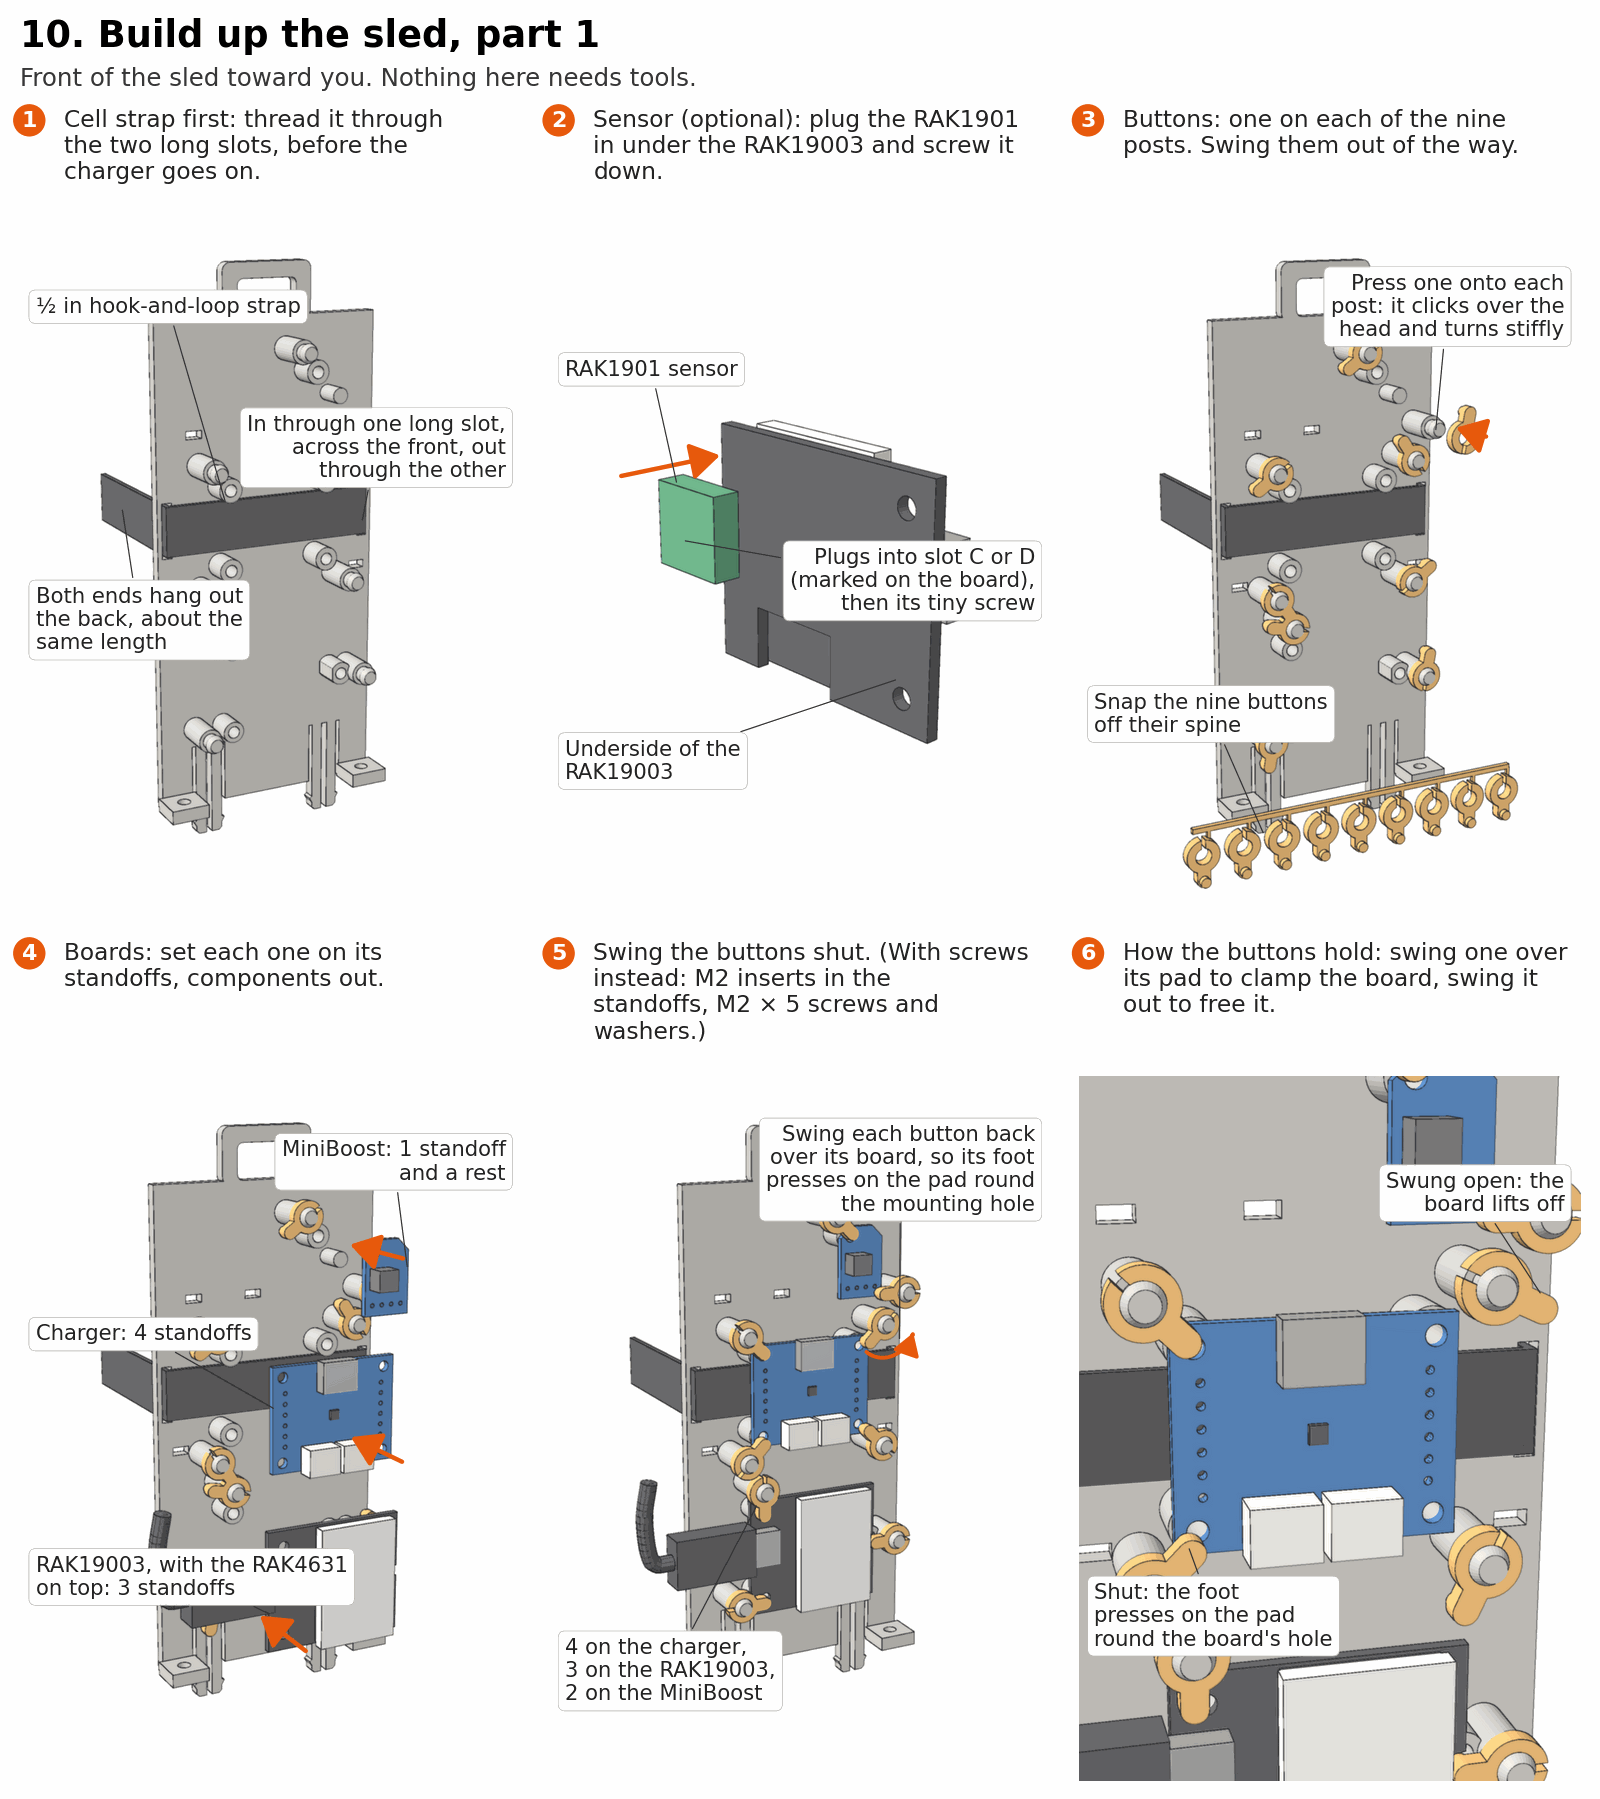
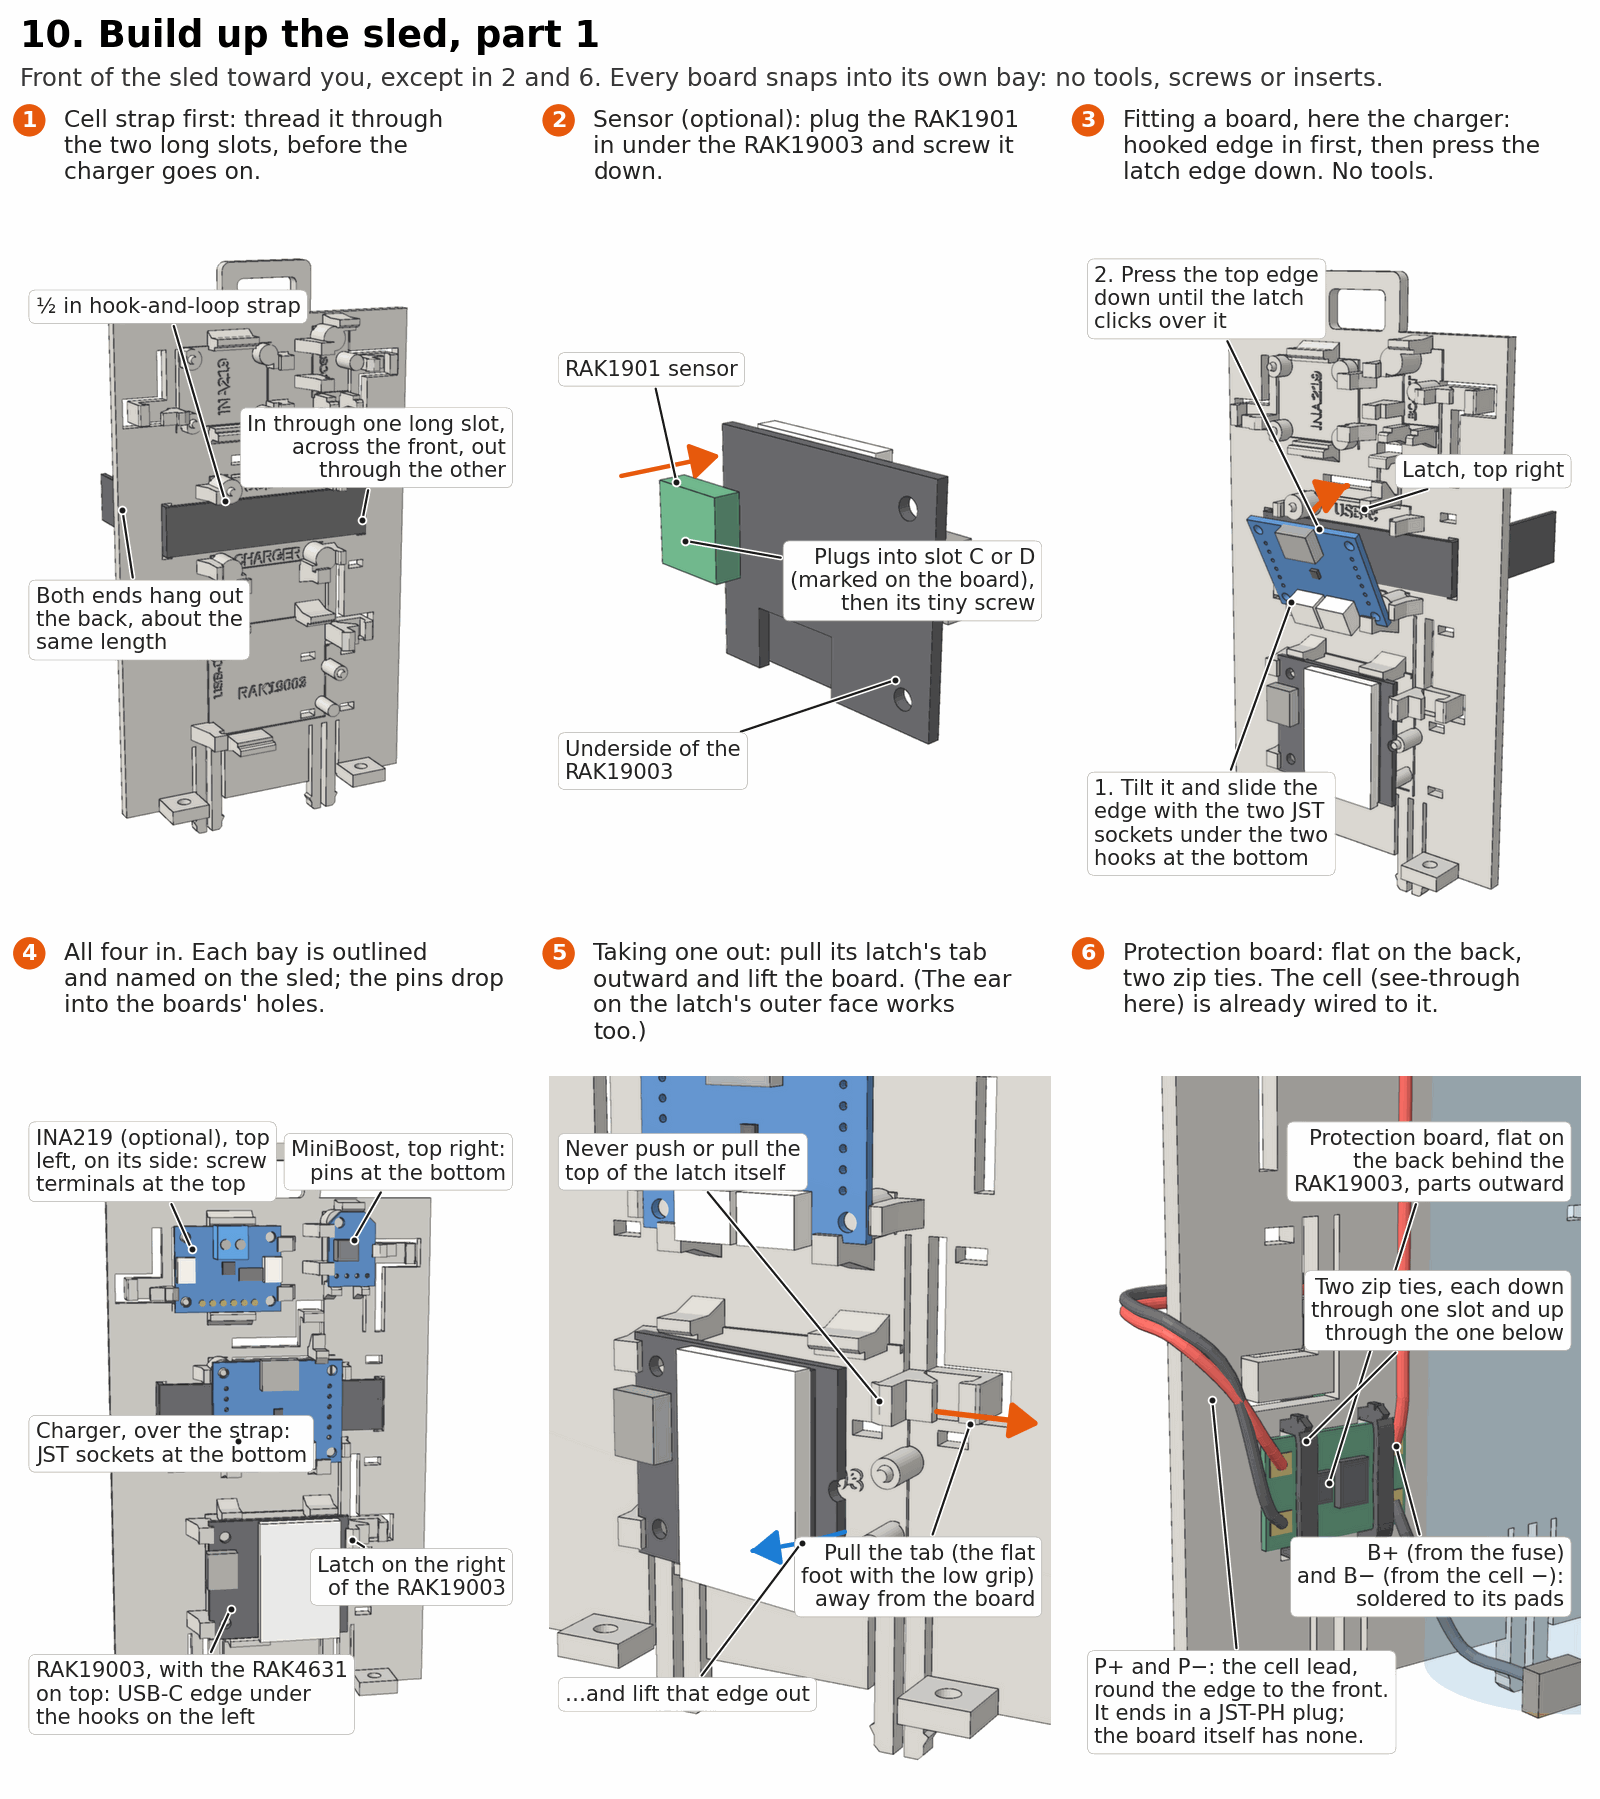
Redraw sled pictures for the board bays; clearer pointer lines
- Step 10 parts 1 and 2, steps 11, 14 and 16, inside-A, sled, open-A/B/C:
  80 mm sled with bays, no turn buttons, INA219 in its bay, protection
  board zip-tied on the back with solder pads (JST plug on its lead),
  USB-C cable drawn from the MiniBoost into the RAK19003
- Plates (no buttons), measure (35.1 mm), bench-test meter leads,
  harness and cold-test notes
- Wiring diagram: B+ and P+ shown joined on the protection board
- Label pointer lines darker and thicker, with a white edge and an
  end dot, in every picture
- Drop the "being redrawn" notes; roadmap updated

Claude-Session: https://claude.ai/code/session_01FKLv1WNS2a5pv8zLCVrjaJ

diff --git a/tahoe-repeater/docs/build-guide.md b/tahoe-repeater/docs/build-guide.md
@@ -34,7 +34,7 @@ Everything here applies to all three versions. Where they differ, it says so. **
 1. **Pick your file.** The [README](../README.md#pick-a-file) explains the nine. If you're at altitude or in snow country, build A.
 2. **Measure your panel mount.** Take the round mount off the panel and measure between the centers of two of its three screw holes, with calipers if you have them ([no calipers?](customizing.md#the-panel-mounts-holes)). The brackets are drawn for 35.1 mm. If yours is different, follow [Changing the design](customizing.md) to export a bracket that matches. Either way, print the mount test disc and check it (section 3) before you print the bracket. While you have the mount out, measure how thick its base is at the holes. With a washer under each head, M3 × 16 screws suit a base up to 5 mm thick, and M3 × 20 from 5.5 to 9 mm.
 
-   <img src="../images/step-measure.png" alt="The panel mount's round base from underneath, with 36 mm between two hole centres, and a cut through the base showing the thickness that sets the screw length">
+   <img src="../images/step-measure.png" alt="The panel mount's round base from underneath, with 35.1 mm between two hole centres, and a cut through the base showing the thickness that sets the screw length">
 
 3. **Get the parts together.** The [parts list](parts-list.md) is a checklist, and it's also [sorted by store](parts-list.md#shopping-list-by-store) for ordering.
 4. **Respect the cell.** A 15 Ah cell can push well over 100 A into a short. Keep its tabs covered whenever you're not working on them, don't let tools bridge them, and fit the fuse before anything else touches it.
@@ -217,7 +217,7 @@ Do this on the bench, before the cell goes anywhere near the radio.
 3. Within a few minutes, charging should stop and the red FAULT light come on. It starts again once the thermistor warms up past about 6 °C.
 4. If charging never stops, the TH jumper isn't fully cut.
 
-Then unplug the cell from **BATT**. Tape the thermistor flat against the side of the cell and keep its two leads apart. Sleeve the protection board in heat shrink.
+Then unplug the cell from **BATT**. Tape the thermistor flat against the side of the cell and keep its two leads apart. Sleeve the protection board in heat shrink (or wrap it in electrical tape).
 
 <img src="../images/step-cold-test.png" alt="The cold-cutoff test: the charger with the cell on BATT and 5 V on USB-C showing CHRG, then the thermistor chilled in a bag showing FAULT, then the thermistor taped to the cell">
 
@@ -275,11 +275,9 @@ Every board snaps into its own bay on the front of the sled, with no tools, scre
    - **Never connect the cell, or any battery, to the RAK's BAT or SOLAR connectors.** The RAK's own charger is for lithium-ion. The optional 1000 µF capacitor in [Troubleshooting](#17-troubleshooting) is the only thing that ever goes on BAT.
 6. Put adhesive heat shrink on every splice, and zip-tie the leads through the sled's small slots. Leave the cell's lead unplugged: it goes into **BATT** last of all, in step 11.
 
-The two pictures below still show the earlier turn buttons and the old protection board and INA219 places; they're being redrawn for the bays.
+<img src="../images/step-sled-1.png" alt="Building the sled, part 1: the cell strap through its two slots, the RAK1901 under the RAK19003, the charger tilted into its bay with its JST edge under the hooks and the top edge pressed down onto the latch, all four boards in their bays, pulling a latch's tab outward to lift the RAK19003 out, and the protection board zip-tied flat on the back with the cell already wired to it">
 
-<img src="../images/step-sled-1.png" alt="Building the sled, part 1: the cell strap through its two slots, the RAK1901 under the RAK19003, the turn buttons onto their posts, the boards onto their standoffs, and the buttons swung shut">
-
-<img src="../images/step-sled-2.png" alt="Building the sled, part 2: the protection board zip-tied at the top left, the INA219 on the back behind the MiniBoost, the DC in lead and thermistor, LOAD to the MiniBoost and the MiniBoost to the RAK by USB-C, and the leads tied down">
+<img src="../images/step-sled-2.png" alt="Building the sled, part 2: the LOAD pigtail into the charger and the USB-C cable from the MiniBoost round the left side into the RAK19003, the DC in lead down the right side and the thermistor round to the cell, the INA219's J6 wires and terminal leads spliced into the cell lead, the cell lead from the protection board round the right edge to below BATT, the leads tied down, and the finished sled with the cell strapped on">
 
 ## 11. Put it all in
 
@@ -313,7 +311,7 @@ Leave it open on the bench with the panel in the sun, and send plenty of traffic
 - The repeater's uptime should never reset when it transmits. If it does, see [Troubleshooting](#17-troubleshooting).
 - After six hours of charging without a break, the charger's safety timer stops it and lights FAULT. Unplugging the input clears it. Outdoors, the dark resets it every night.
 
-<img src="../images/step-bench-test.png" alt="The charge current read on a meter in the cell lead, about 0.5 A in full sun, and the cell voltage settling at 3.65 V or less">
+<img src="../images/step-bench-test.png" alt="The charge current read on a meter in series with the red wire of a JST-PH extension, COM to the cell side and 10A to the BATT side, about 0.5 A in full sun, and the cell voltage settling at 3.65 V or less">
 
 ## 14. Close it up
 

diff --git a/tahoe-repeater/ROADMAP.md b/tahoe-repeater/ROADMAP.md
@@ -10,7 +10,7 @@ Planned changes to the Tahoe repeater.
 
 - [x] **Board outlines on the sled.** A 0.6 mm raised outline just inside each board's footprint, with its name (CHARGER, RAK19003, BOOST) and "USB-C" at the end where each board's USB-C socket goes. The charger's outline is broken where the battery strap crosses. Done in the CAD and STLs.
 - [x] **Clamp posts shaped differently from standoffs.** Done, but the clamps and posts go away with the board bays below.
-- [ ] **Redraw the sled pictures** for the 80 mm sled with its board bays (no turn buttons; the INA219 in its bay at the top left; the protection board zip-tied on the back), and the fitting and removing of a board (also: `step-sled-2.png` still shows the leads being soldered on the sled, which now happens in step 4): the sled steps (part 1 and 2), putting it in, opening it, `inside-A.png`, `sled.png` and the plates picture `step-plates.png`. The build guide and README say the pictures are being redrawn; take those notes out when they are.
+- [x] **Redraw the sled pictures** for the 80 mm sled with its board bays: the sled steps (part 1 and 2, now with fitting a board, taking one out and the protection board on the back), putting it in, closing, opening, `inside-A.png`, `sled.png`, `open-A/B/C.png`, the plates picture (no buttons) and the measuring picture (35.1 mm). Every lead is drawn as a real wire: the USB-C cable runs from the MiniBoost round the left side into the RAK19003, and the protection board has solder pads only, its P+ and P− lead ending in the JST-PH plug for BATT. Also fixed: the bench-test meter (COM to the cell side, 10A to the BATT side), the harness and cold-test notes, the wiring diagram now shows B+ and P+ joined on the protection board, and every label's pointer line is darker and thicker, with a white edge and a dot on its target so it shows on dark boards too.
 
 ## Tool-less board bays (replacing the swing clamps)
 

diff --git a/tahoe-repeater/README.md b/tahoe-repeater/README.md
@@ -172,11 +172,11 @@ The latch, pin and screw all line up where the joint lands when it's hand-tight.
 
 ## Inside
 
-<img src="images/sled.png" alt="The sled pulled up out of the base by its handle, and the turn buttons on the charger board, two shut and two swung open">
+<img src="images/sled.png" alt="The sled pulled up out of the base by its handle with the cell strapped on, and a close-up of the charger in its bay: two hooks on the bottom edge, stops on the sides, a pin in one hole and the latch at the top right">
 
 The sled clicks into two sockets in the floor on two sprung prongs. To take it out, unplug the panel lead at the charger and pull the sled straight up by its handle. The cell comes with it, strapped on, because its leads run to the protection board on the sled. With the 20 cm antenna lead from the parts list, you can set the sled down beside the box without unplugging the antenna.
 
-Each board snaps into its own bay. It sits on standoffs, one edge slides under two fixed hooks, and a latch clicks over the other edge. Pull the latch's tab outward and the board lifts out. The protection board is zip-tied flat on the back of the sled. The sled's feet also still take two M3 screws into the floor, if you want it held down harder than the prongs hold it. (The picture still shows the earlier turn buttons; it's being redrawn.)
+Each board snaps into its own bay. It sits on standoffs, one edge slides under two fixed hooks, and a latch clicks over the other edge. Pull the latch's tab outward and the board lifts out. The protection board is zip-tied flat on the back of the sled. The sled's feet also still take two M3 screws into the floor, if you want it held down harder than the prongs hold it.
 
 ## Straps
 
